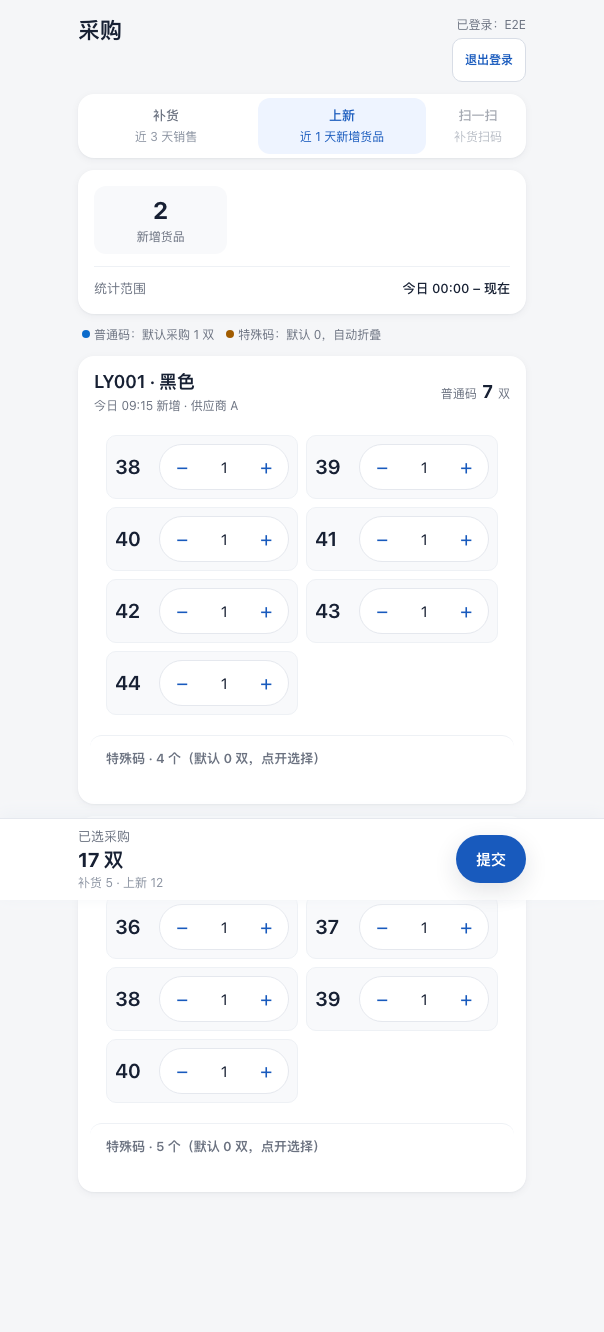
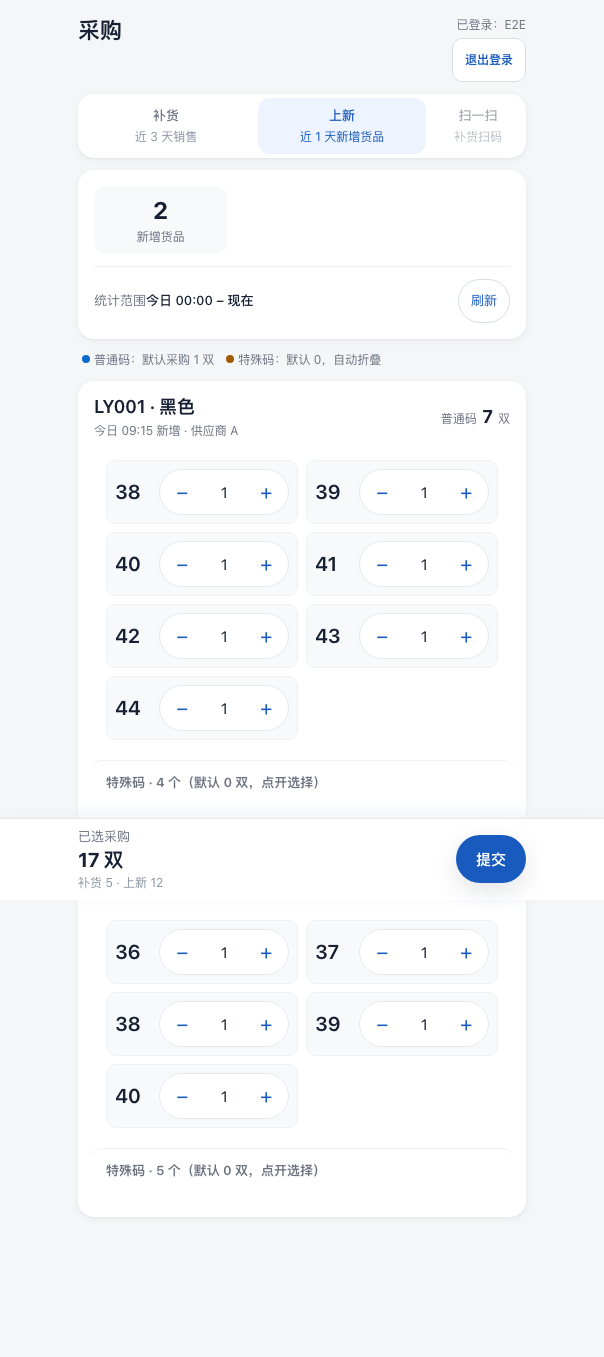
feat(procurement): 补货窗口改「今天00:00-3天 ~ 现在」+ 页面实时刷新
业务负责人 2026-10-29 口径：
- 补货时间窗口：开始 = 今天 00:00 往前 3 个自然日；结束 = **现在**（含今天已发生的销售）。
  例：10-29 00:57 ⇒ [10-26 00:00, 10-29 00:57]；跨月/跨年/闰年由 epoch 日期运算自动进位。
- 实时刷新：页面停留期间每 60 秒自动刷新当前 tab（refresh.autoMs 可配，0=关）+ 顶部「刷新」按钮
  + 页面重新可见且距上次 >15s 时补刷；刷新保留已选数量、清掉数据里已消失的已选行、失败保留旧数据、
  提交中不刷新。草稿仍只在提交成功后才清空。
- 统计范围文案：「M月D日 00:00 – 现在」。
- 测试：AC-P2 边界重写 + AC-P2b 跨月/跨年/闰年 6 个 case；AC-P20b 手动刷新/保留草稿/裁掉消失行；
  e2e 加手动刷新用例（请求数 +1、已选保留、提示已更新）。全量 2262 tests / 2261 pass / 0 fail；
  size:check 绿；observability --check 最新；git diff --check 干净。

diff --git a/server/test/procurementPageData.test.js b/server/test/procurementPageData.test.js
@@ -56,24 +56,41 @@ const view = (records, products = [productDto()]) => buildReplenishView({
 });
 
 // ── AC-P2 三天窗口（上海时区）─────────────────────────────────────────────
-test('AC-P2 补货窗口 = [今天 00:00 - 3 天, 今天 00:00)：上海时区边界', () => {
+test('AC-P2 补货窗口 = [今天 00:00 - 3 天, 现在]：上海时区边界（业务负责人 2026-10-29 口径）', () => {
   const range = replenishWindow(NOW, config);
-  assert.equal(range.start, SH('2026-10-25T00:00:00'));
-  assert.equal(range.end, SH('2026-10-28T00:00:00'));
+  assert.equal(range.start, SH('2026-10-25T00:00:00'), '开始 = 今天 00:00 往前 3 个自然日');
+  assert.equal(range.end, NOW, '结束 = 此刻（含今天已发生的销售）');
   assert.equal(range.from, '2026-10-25');
-  assert.equal(range.to, '2026-10-27');
-  assert.equal(dayIso(SH('2026-10-27T23:59:59'), 480), '2026-10-27');
+  assert.equal(range.to, '2026-10-28', '结束日期 = 今天');
 });
 
-test('AC-P2 边界：昨天 23:59:59 计入；今天 00:00:00 与 3 天前 23:59:59 不计入', () => {
+test('AC-P2 边界：3 天前 00:00 起 / 现在之内都计入；3 天前 23:59:59 与「未来」不计入', () => {
   const inWindow = view([salesRow({ soldAt: SH('2026-10-27T23:59:59') })]);
   assert.equal(inWindow.stats.prepaidPending + inWindow.stats.spotSold, 1);
-  const today = view([salesRow({ soldAt: SH('2026-10-28T00:00:00') })]);
-  assert.equal(today.stats.spotSold, 0);
+  const todayPartial = view([salesRow({ soldAt: SH('2026-10-28T08:59:59') })]);
+  assert.equal(todayPartial.stats.spotSold, 1, '今天 00:00 之后、现在之前的销售必须计入');
+  const nowEdge = view([salesRow({ soldAt: SH('2026-10-28T09:00:00') })]);
+  assert.equal(nowEdge.stats.spotSold, 0, '「现在」这一刻本身不计入（右开区间）');
   const tooOld = view([salesRow({ soldAt: SH('2026-10-24T23:59:59') })]);
   assert.equal(tooOld.stats.spotSold, 0);
   const firstInclusive = view([salesRow({ soldAt: SH('2026-10-25T00:00:00') })]);
   assert.equal(firstInclusive.stats.spotSold, 1);
+});
+
+test('AC-P2b 跨月 / 跨年 / 闰年：日期运算自动进位（不手写月份边界）', () => {
+  const cases = [
+    ['2026-11-02T09:00:00', '2026-10-30', '2026-11-02'], // 跨月：11-02 00:00 - 3 天 = 10-30
+    ['2026-12-01T00:30:00', '2026-11-28', '2026-12-01'], // 跨月：12-01 - 3 天 = 11-28
+    ['2027-01-02T09:00:00', '2026-12-30', '2027-01-02'], // 跨年：01-02 - 3 天 = 上年 12-30
+    ['2026-03-02T09:00:00', '2026-02-27', '2026-03-02'], // 平年 2 月
+    ['2028-03-02T09:00:00', '2028-02-28', '2028-03-02'], // 闰年 2 月（2-29 存在）
+    ['2026-01-01T00:10:00', '2025-12-29', '2026-01-01'], // 元旦跨年
+  ];
+  for (const [nowIso, from, to] of cases) {
+    const range = replenishWindow(SH(nowIso), config);
+    assert.equal(range.from, from, `${nowIso} 的开始日期`);
+    assert.equal(range.to, to, `${nowIso} 的结束日期`);
+  }
 });
 
 // ── AC-P3 库存 = 0 过滤 ───────────────────────────────────────────────────

diff --git a/server/public/workbench/features/procurement/index.js b/server/public/workbench/features/procurement/index.js
@@ -17,6 +17,7 @@ import { shellHtml, errorHtml, emptyHtml } from './render.js';
 import { createReplenishPanel } from './replenish.js';
 import { createNewProductsPanel } from './newProducts.js';
 import { createSubmitController } from './submit.js';
+import { createRefresher } from './refresh.js';
 
 const TABS = ['replenish', 'new'];
 
@@ -25,11 +26,10 @@ export function mountProcurementPage(host) {
   host.innerHTML = shellHtml(config);
   const remote = createApi(config);
   const panels = { replenish: createReplenishPanel(config), new: createNewProductsPanel(config) };
-  const submitCtl = createSubmitController({ config, api: remote, getStore: () => store });
-  const state = { tab: 'replenish', bodies: {}, errors: {} };
+  const state = { tab: 'replenish', bodies: {}, errors: {}, loadedAt: {} };
   let store = null;
   let draft = null;
-
+  const submitCtl = createSubmitController({ config, api: remote, getStore: () => store });
   const panelEl = (tab) => host.querySelector(`[data-pr-panel="${tab}"]`);
   const setDraft = (next) => { draft = next; submitCtl.renderBottom(host, draft); };
 
@@ -50,6 +50,10 @@ export function mountProcurementPage(host) {
     }
     submitCtl.renderBottom(host, draft);
   };
+  const refresher = createRefresher({
+    host, config, panels, remote, getStore: () => store, getDraft: () => draft,
+    state, setDraft: (next) => setDraft(next), paint, refreshNumbers, submitCtl,
+  });
 
   const metaOf = (recordId) => {
     for (const tab of TABS) {
@@ -103,9 +107,11 @@ export function mountProcurementPage(host) {
     if (!force && state.bodies[tab]) { paint(tab); return; }
     paint(tab);
     try {
-      const result = await panels[tab].load({ api: remote, store, draft });
+      const result = await panels[tab].load({ api: remote, store, draft, force });
       state.bodies[tab] = result.body;
-      setDraft(result.draft);
+      state.loadedAt[tab] = Date.now();
+      // 刷新后：已不在数据里的「已选行」要清掉（防提交到页面上已看不到的货品）
+      setDraft(store.pruneSource(result.draft, tab, (result.body.groups || []).map((group) => group.productRecordId)));
       paint(tab);
       refreshNumbers();
     } catch (error) {
@@ -142,6 +148,7 @@ export function mountProcurementPage(host) {
       return;
     }
     if (event.target.closest('[data-pr-retry]')) { await load(state.tab, true); return; }
+    if (event.target.closest('[data-pr-refresh]')) { await refresher.refresh(); return; }
     if (event.target.closest('[data-pr-submit]')) {
       const result = await submitCtl.submit(host, draft);
       if (result.ok) { setDraft(store.ensure()); paint(state.tab); refreshNumbers(); }
@@ -184,6 +191,8 @@ export function mountProcurementPage(host) {
     setDraft(store.ensure());
     submitCtl.renderBottom(host, draft);
     await activate('replenish');
+    // 实时性：页面停留期间按配置间隔自动刷新 + 手动「刷新」按钮；重新可见时也补一次
+    refresher.startAuto();
   };
   void start();
   return { activate };

diff --git a/server/public/workbench/features/procurement/refresh.js b/server/public/workbench/features/procurement/refresh.js
@@ -1,0 +1,56 @@
+/**
+ * 采购页「实时刷新」：页面停留期间按配置间隔自动刷新（默认 60s）+ 手动「刷新」按钮 + 重新可见时补一次。
+ *
+ * 🔴 三条纪律：
+ *   ① 刷新**不覆盖她的已选**：草稿里已改的数量保留，只补新增行（`seedDefaults` 只补不覆盖）；
+ *   ② 刷新后**清掉已消失的已选行**（`pruneSource`）—— 防提交到页面上已经看不到的货品；
+ *   ③ 刷新失败**不白屏**：保留当前数据 + 一条提示；提交进行中不刷新（避免打断）。
+ */
+export const createRefresher = ({
+  host, config, panels, remote, getStore, getDraft, state, setDraft, paint, refreshNumbers, submitCtl,
+}) => {
+  let busy = false;
+  const buttonOf = () => host.querySelector('[data-pr-refresh]');
+
+  const refresh = async () => {
+    if (busy) return;
+    const button = buttonOf();
+    if (button) { button.disabled = true; button.textContent = config.texts.refreshing; }
+    busy = true;
+    const tab = state.tab;
+    try {
+      const store = getStore();
+      const result = await panels[tab].load({ api: remote, store, draft: getDraft(), force: true });
+      state.bodies[tab] = result.body;
+      state.loadedAt[tab] = Date.now();
+      setDraft(store.pruneSource(result.draft, tab, (result.body.groups || []).map((group) => group.productRecordId)));
+      paint(tab);
+      refreshNumbers();
+      submitCtl.toast(host, config.texts.refreshed);
+    } catch (error) {
+      // 静默失败会让人以为"数据没变"；这里如实提示，但保留当前数据（不白屏）
+      submitCtl.toast(host, error?.message || config.texts.loadFailed);
+    } finally {
+      busy = false;
+      if (button) { button.disabled = false; button.textContent = config.texts.refresh; }
+    }
+  };
+
+  /** 启动自动刷新（`config.refresh.autoMs = 0` ⇒ 关掉；只刷新当前可见 tab）。 */
+  const startAuto = () => {
+    if (config.refresh.autoMs > 0) {
+      setInterval(() => {
+        if (document.visibilityState !== 'visible') return;
+        if (host.querySelector('[data-pr-submit]')?.disabled) return; // 提交中不刷
+        refresh();
+      }, config.refresh.autoMs);
+    }
+    document.addEventListener('visibilitychange', () => {
+      if (document.visibilityState !== 'visible') return;
+      const last = state.loadedAt[state.tab] || 0;
+      if (Date.now() - last >= config.refresh.visibilityRefreshMs) refresh();
+    });
+  };
+
+  return { refresh, startAuto };
+};

diff --git a/server/test/procurementPageFrontend.test.js b/server/test/procurementPageFrontend.test.js
@@ -82,6 +82,33 @@ test('AC-P9/P21 扫一扫本轮占位：tab 视觉保留但禁用；页面不 im
   assert.match(read('src/utils/uiTapReport.js'), /procurement_scan_returned/);
 });
 
+test('AC-P19b 实时刷新：刷新按钮 + 自动刷新配置 + 刷新后裁掉已消失的已选行', async () => {
+  const configSource = read(`${PUBLIC}/config/procurement.js`);
+  assert.match(configSource, /replenish: '\{from\} 00:00 – 现在'/);
+  assert.match(configSource, /autoMs: 60000/);
+  const refresh = read(`${PUBLIC}/features/procurement/refresh.js`);
+  assert.match(refresh, /data-pr-refresh/);
+  assert.match(refresh, /pruneSource/);
+  assert.match(refresh, /visibilitychange/);
+  assert.ok(lines(`${PUBLIC}/features/procurement/refresh.js`) <= 200);
+  assert.match(read(`${PUBLIC}/features/procurement/render.js`), /data-pr-refresh/);
+
+  const store = await import(pathToFileURL(path.join(ROOT, PUBLIC, 'features/procurement/store.js')).href);
+  const config = (await import(pathToFileURL(path.join(ROOT, PUBLIC, 'config/procurement.js')).href)).PROCUREMENT_UI;
+  const memory = new Map();
+  const storage = { getItem: (k) => memory.get(k) ?? null, setItem: (k, v) => memory.set(k, v), removeItem: (k) => memory.delete(k) };
+  const draftStore = store.createDraftStore({ openId: 'ou_refresh', config, storage, now: () => 1761600000000 });
+  let draft = draftStore.ensure();
+  draft = draftStore.seedDefaults(draft, 'replenish', [
+    { productRecordId: 'recKeep', itemNo: 'A1', color: '黑', sizes: [{ size: 39, prepaidSold: 1, spotSold: 0 }] },
+    { productRecordId: 'recGone', itemNo: 'A2', color: '黑', sizes: [{ size: 40, prepaidSold: 2, spotSold: 0 }] },
+  ]);
+  assert.equal(draftStore.quantityOf(draft, 'recGone', 40), 2);
+  const pruned = draftStore.pruneSource(draft, 'replenish', ['recKeep']);
+  assert.equal(draftStore.quantityOf(pruned, 'recKeep', 39), 1, '还在数据里的已选行保留');
+  assert.equal(pruned.products.recGone, undefined, '刷新后已消失的货品要从草稿剔除（防提交看不见的行）');
+});
+
 test('底部提交条 + 空/错态 + 统计范围都在渲染层（与视觉稿一致）', () => {
   const render = read(`${PUBLIC}/features/procurement/render.js`);
   for (const marker of ['data-pr-total', 'data-pr-breakdown', 'data-pr-submit', 'data-pr-toast', 'pr-summary-grid', 'pr-group', 'pr-stepper', 'data-pr-retry']) {

diff --git a/server/public/workbench/features/procurement/store.js b/server/public/workbench/features/procurement/store.js
@@ -158,8 +158,22 @@ export const createDraftStore = ({ openId, config, storage = window.localStorage
     return save({ ...draft, products });
   };
 
+  /**
+   * 刷新数据后：只保留「这次数据里还在」的那些已选货品（source 匹配的才裁）。
+   * 例：某个货品补货已补齐/不再缺货 ⇒ 列表里没有了，草稿里也不该继续挂着它（防提交到看不见的行）。
+   */
+  const pruneSource = (draft, source, keepIds = []) => {
+    const keep = new Set((keepIds || []).map(String));
+    const products = { ...(draft.products || {}) };
+    let changed = false;
+    for (const [id, product] of Object.entries(products)) {
+      if (product.source === source && !keep.has(String(id))) { delete products[id]; changed = true; }
+    }
+    return changed ? save({ ...draft, products }) : draft;
+  };
+
   return {
-    storageKey, load, save, ensure, clear, rotateSubmitKey, setQuantity, seedDefaults,
+    storageKey, load, save, ensure, clear, rotateSubmitKey, setQuantity, seedDefaults, pruneSource,
     quantityOf: (draft, productRecordId, size) => Number(entriesOfProduct(draft, productRecordId)[size]) || 0,
     productOf: (draft, productRecordId) => draft.products?.[productRecordId] || null,
   };

diff --git a/server/public/workbench/config/procurement.js b/server/public/workbench/config/procurement.js
@@ -38,6 +38,9 @@ export const PROCUREMENT_UI = Object.freeze({
     submit: '提交',
     submitted: '已提交成功，数据会更新',
     submitFailed: '提交没成功，请稍后重试。',
+    refresh: '刷新',
+    refreshing: '刷新中…',
+    refreshed: '已更新到最新数据',
     scanDisabled: '扫一扫本轮暂未开放，先用补货 / 上新。',
     scanTabHint: '补货扫码',
     noSelection: '还没有选要采购的货品。',
@@ -57,9 +60,15 @@ export const PROCUREMENT_UI = Object.freeze({
     ]),
   }),
   range: Object.freeze({
-    replenish: '{from} – {to}',
+    // 业务负责人 2026-10-29 口径：补货窗口 = 今天 00:00 - 3 天 ~ **现在**（含今天已发生）
+    replenish: '{from} 00:00 – 现在',
     newProducts: '今日 00:00 – 现在',
     dayTemplate: '{month}月{day}日',
+  }),
+  // 数据刷新：打开/切 tab 都是实时查询；页面停留期间按这个间隔自动刷新 + 手动刷新按钮
+  refresh: Object.freeze({
+    autoMs: 60000,          // 0 = 关掉自动刷新
+    visibilityRefreshMs: 15000, // 页面重新可见且距上次刷新超过这么久 ⇒ 刷一次
   }),
   legends: Object.freeze({
     replenish: Object.freeze([

diff --git a/server/src/config/procurementPage.js b/server/src/config/procurementPage.js
@@ -54,10 +54,12 @@ const buildProcurementPageConfig = (env = process.env) => {
       newProducts: '/procurement/new-products',
       submit: '/procurement/submit',
     }),
-    // 时间窗口：补货 = [今天 00:00 - days 天, 今天 00:00)（includeToday=false 时不含今天）
+    // 时间窗口（业务负责人 2026-10-29 口径）：
+    //   补货 = [今天 00:00 - days 天, **现在**]（含今天已发生的销售；例：10-29 00:57 ⇒ [10-26 00:00, 10-29 00:57]）
+    //   跨月/跨年由 epoch 日期运算自动进位（不手写月份边界）。
     window: Object.freeze({
       replenishDays: readInt(env, 'PROCUREMENT_REPLENISH_DAYS', 3, { min: 1, max: 31 }),
-      includeToday: readFlag(env, 'PROCUREMENT_REPLENISH_INCLUDE_TODAY', false),
+      includeToday: readFlag(env, 'PROCUREMENT_REPLENISH_INCLUDE_TODAY', true),
       offsetMinutes: readInt(env, 'PROCUREMENT_TZ_OFFSET_MINUTES', SHANGHAI_OFFSET_MINUTES, { min: -720, max: 840 }),
     }),
     // 默认值（可手改；改这里不用改渲染层）

diff --git a/server/src/services/procurementPageData.js b/server/src/services/procurementPageData.js
@@ -30,14 +30,13 @@ const replenishWindow = (now, config) => {
   const days = config.window.replenishDays;
   const offset = config.window.offsetMinutes;
   const today = dayStart(now, offset);
+  // 业务负责人 2026-10-29 口径：开始 = **今天 00:00 - days 天**；结束 = **现在**
+  // （例：10-29 00:57 ⇒ 10-26 00:00 ~ 10-29 00:57；跨月/跨年由 epoch 自动进位）
+  const start = today - days * DAY_MS;
   if (config.window.includeToday) {
-    return {
-      start: today - (days - 1) * DAY_MS, end: Number(now), days, from: dayIso(today, offset), to: dayIso(now, offset),
-    };
+    return { start, end: Number(now), days, from: dayIso(start, offset), to: dayIso(now, offset) };
   }
-  return {
-    start: today - days * DAY_MS, end: today, days, from: dayIso(today - days * DAY_MS, offset), to: dayIso(today - 1, offset),
-  };
+  return { start, end: today, days, from: dayIso(start, offset), to: dayIso(today - 1, offset) };
 };
 
 /**

diff --git a/server/public/workbench/procurement.css b/server/public/workbench/procurement.css
@@ -31,6 +31,8 @@
 .pr-stat span { display: block; margin-top: 2px; font-size: var(--font-size-xs); color: var(--text-secondary); }
 .pr-range { display: flex; align-items: center; justify-content: space-between; margin-top: var(--space-3); padding-top: var(--space-3); border-top: 1px solid var(--border-light); font-size: var(--font-size-sm); color: var(--text-secondary); }
 .pr-range strong { color: var(--text); font-weight: var(--weight-medium); }
+.pr-refresh { min-height: var(--control-height); margin-left: auto; padding: 0 var(--space-3); border: 1px solid var(--control-border); border-radius: var(--radius-pill); background: var(--surface); color: var(--primary); font-size: var(--font-size-sm); cursor: pointer; }
+.pr-refresh:disabled { opacity: 0.6; cursor: wait; }
 
 /* 图例 */
 .pr-legend { display: flex; flex-wrap: wrap; gap: var(--space-3); margin: 0 var(--space-1) var(--space-3); font-size: var(--font-size-xs); color: var(--text-secondary); }

diff --git a/server/public/workbench/features/procurement/render.js b/server/public/workbench/features/procurement/render.js
@@ -40,7 +40,8 @@ const statsHtml = (tab, body, config) => {
   const cells = defs.map((def) => `<div class="pr-stat"><b>${escapeHtml(body?.stats?.[def.key] ?? 0)}</b><span>${escapeHtml(def.label)}</span></div>`).join('');
   return `<section class="pr-summary" aria-label="${escapeHtml(config.title)}">
     <div class="pr-summary-grid">${cells}</div>
-    <div class="pr-range"><span>${escapeHtml(config.texts.rangeLabel)}</span><strong>${escapeHtml(rangeText(tab, body?.range, config))}</strong></div>
+    <div class="pr-range"><span>${escapeHtml(config.texts.rangeLabel)}</span><strong>${escapeHtml(rangeText(tab, body?.range, config))}</strong>
+      <button type="button" class="pr-refresh" data-pr-refresh>${escapeHtml(config.texts.refresh)}</button></div>
   </section>`;
 };
 

diff --git a/server/public/workbench/features/procurement/replenish.js b/server/public/workbench/features/procurement/replenish.js
@@ -9,8 +9,8 @@ import { statsHtml, legendHtml, replenishGroupHtml, emptyHtml, totalTemplateHtml
 
 export const createReplenishPanel = (config) => {
   /** 拉数据 + 把「默认选中」并进草稿（只补不覆盖已改过的数量/勾选）。 */
-  const load = async ({ api, store, draft }) => {
-    const body = await api.loadReplenish();
+  const load = async ({ api, store, draft, force = false }) => {
+    const body = await api.loadReplenish({ force });
     return { body, draft: store.seedDefaults(draft, 'replenish', body.groups || []) };
   };
 
